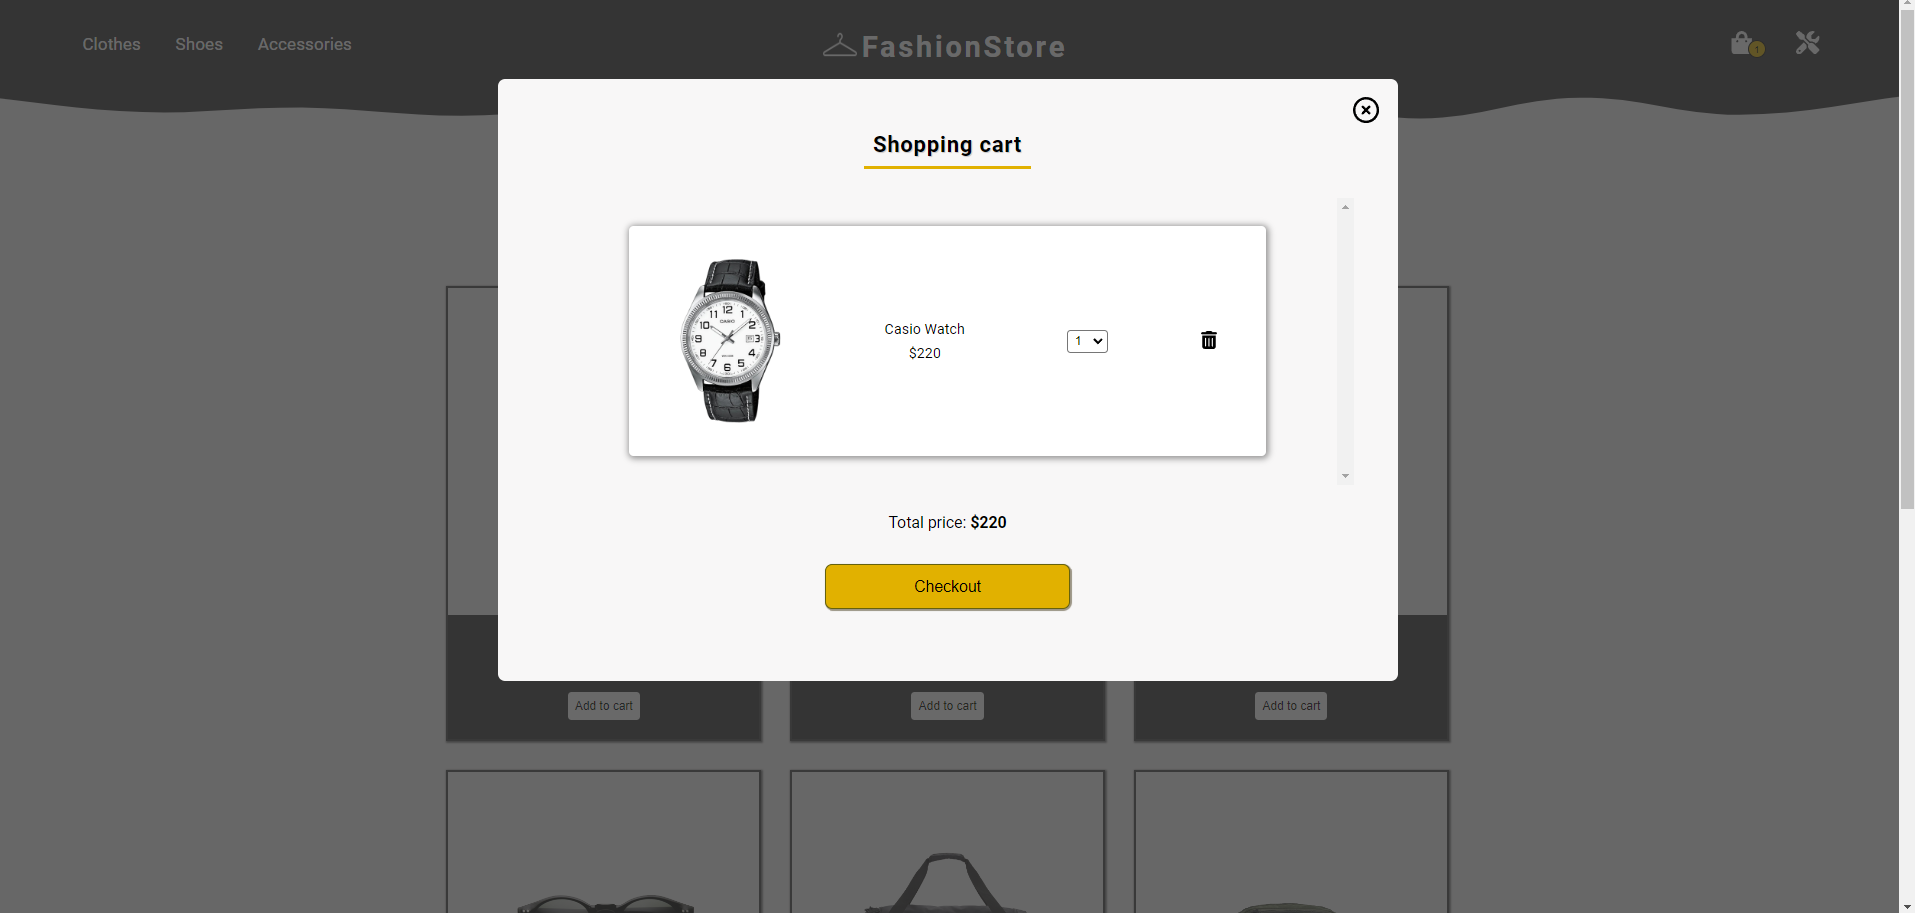
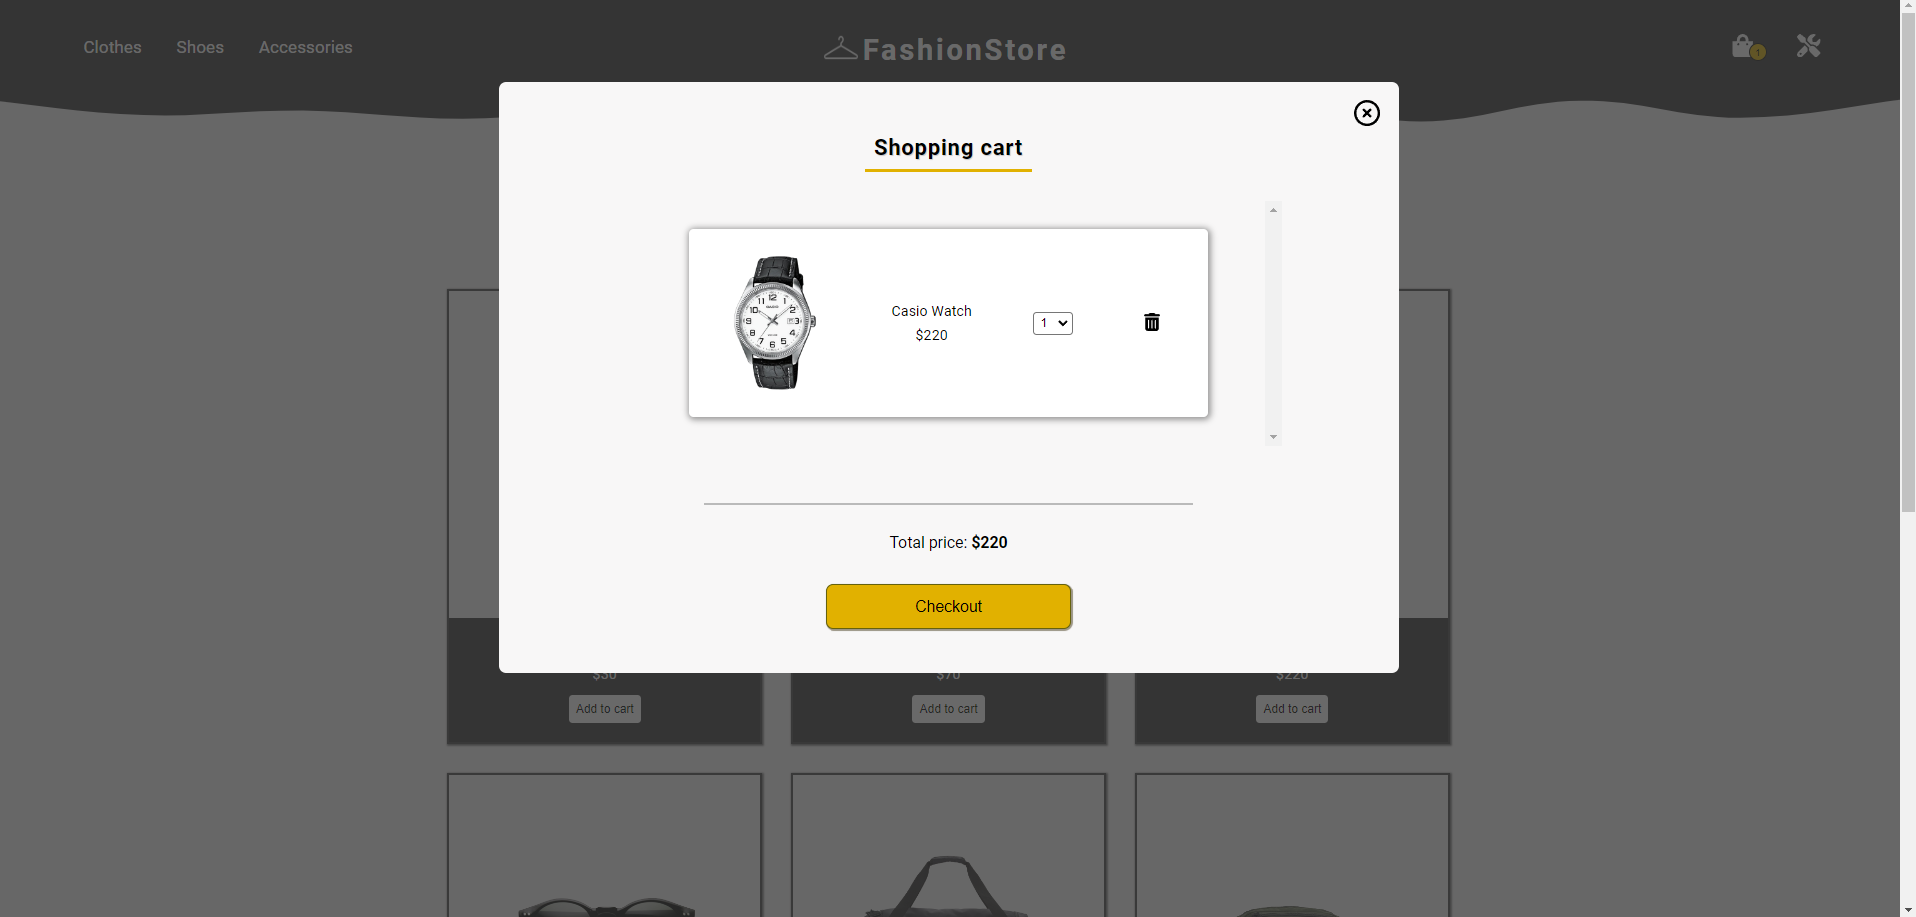
added new ss

diff --git a/src/components/ShoppingCart/ShoppingCart.module.scss b/src/components/ShoppingCart/ShoppingCart.module.scss
@@ -90,8 +90,8 @@
 
 	.total-price {
 		margin: 1.8em 0em 0.7em;
-		font-size: 1.1rem;
 		span {
+			font-size: 1.3rem;
 			font-weight: bold;
 		}
 	}
@@ -106,7 +106,7 @@
 		.underline {
 			position: relative;
 			margin-top: 2em;
-			width: 60%;
+			width: 70%;
 			height: 2px;
 			background-color: rgba(174, 174, 174, 0.844);
 		}
